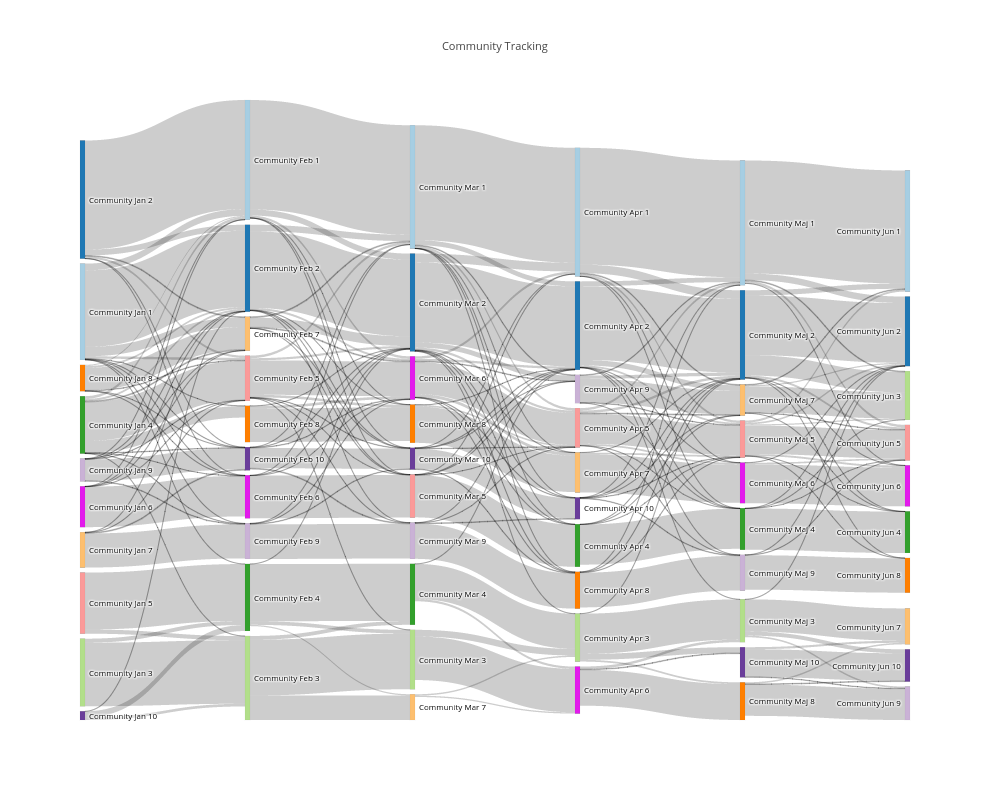
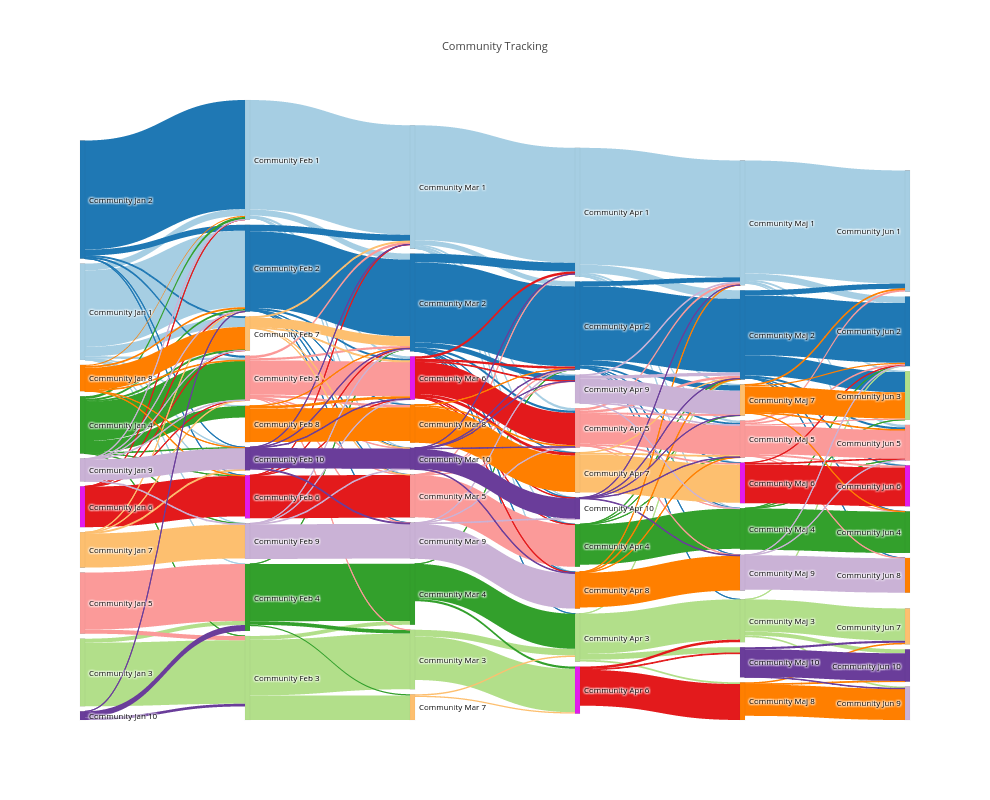
alluva

diff --git a/figure.js b/figure.js
@@ -11,7 +11,7 @@ var figure = {
     "data": [
         {
             "node": {
-                "colorsrc": "s.houshmand1511:477:c0d793", 
+                "colorsrc": "s.houshmand1511:497:6803f9", 
                 "color": [
                     "#a6cee3", 
                     "#1f78b4", 
@@ -137,7 +137,7 @@ var figure = {
                     "Community Jun 10"
                 ], 
                 "pad": 5, 
-                "labelsrc": "s.houshmand1511:477:9d5765", 
+                "labelsrc": "s.houshmand1511:497:fb011c", 
                 "line": {
                     "color": "black", 
                     "width": 0.1
@@ -158,6 +158,7 @@ var figure = {
             "orientation": "h", 
             "type": "sankey", 
             "link": {
+                "colorsrc": "s.houshmand1511:497:f0a7ef", 
                 "target": [
                     13.0, 
                     19.0, 
@@ -404,7 +405,263 @@ var figure = {
                     56.0, 
                     59.0
                 ], 
-                "valuesrc": "s.houshmand1511:477:21aef6", 
+                "valuesrc": "s.houshmand1511:497:79f095", 
+                "color": [
+                    "rgba(166,206,227,1)", 
+                    "rgba(166,206,227,1)", 
+                    "rgba(166,206,227,1)", 
+                    "rgba(166,206,227,1)", 
+                    "rgba(166,206,227,1)", 
+                    "rgba(166,206,227,1)", 
+                    "rgba(166,206,227,1)", 
+                    "rgba(166,206,227,1)", 
+                    "rgba(166,206,227,1)", 
+                    "rgba(31,120,180,1)", 
+                    "rgba(31,120,180,1)", 
+                    "rgba(31,120,180,1)", 
+                    "rgba(31,120,180,1)", 
+                    "rgba(31,120,180,1)", 
+                    "rgba(31,120,180,1)", 
+                    "rgba(178,223,138,1)", 
+                    "rgba(178,223,138,1)", 
+                    "rgba(51,160,44,1)", 
+                    "rgba(51,160,44,1)", 
+                    "rgba(51,160,44,1)", 
+                    "rgba(51,160,44,1)", 
+                    "rgba(51,160,44,1)", 
+                    "rgba(51,160,44,1)", 
+                    "rgba(51,160,44,1)", 
+                    "rgba(51,160,44,1)", 
+                    "rgba(51,160,44,1)", 
+                    "rgba(251,154,153,1)", 
+                    "rgba(251,154,153,1)", 
+                    "rgba(227,26,28,1)", 
+                    "rgba(227,26,28,1)", 
+                    "rgba(227,26,28,1)", 
+                    "rgba(227,26,28,1)", 
+                    "rgba(227,26,28,1)", 
+                    "rgba(253,191,111,1)", 
+                    "rgba(253,191,111,1)", 
+                    "rgba(253,191,111,1)", 
+                    "rgba(253,191,111,1)", 
+                    "rgba(255,127,0,1)", 
+                    "rgba(255,127,0,1)", 
+                    "rgba(255,127,0,1)", 
+                    "rgba(255,127,0,1)", 
+                    "rgba(255,127,0,1)", 
+                    "rgba(255,127,0,1)", 
+                    "rgba(202,178,214,1)", 
+                    "rgba(202,178,214,1)", 
+                    "rgba(202,178,214,1)", 
+                    "rgba(202,178,214,1)", 
+                    "rgba(202,178,214,1)", 
+                    "rgba(202,178,214,1)", 
+                    "rgba(106,61,154,1)", 
+                    "rgba(106,61,154,1)", 
+                    "rgba(106,61,154,1)", 
+                    "rgba(166,206,227,1)", 
+                    "rgba(166,206,227,1)", 
+                    "rgba(166,206,227,1)", 
+                    "rgba(166,206,227,1)", 
+                    "rgba(166,206,227,1)", 
+                    "rgba(166,206,227,1)", 
+                    "rgba(31,120,180,1)", 
+                    "rgba(31,120,180,1)", 
+                    "rgba(31,120,180,1)", 
+                    "rgba(31,120,180,1)", 
+                    "rgba(31,120,180,1)", 
+                    "rgba(31,120,180,1)", 
+                    "rgba(31,120,180,1)", 
+                    "rgba(178,223,138,1)", 
+                    "rgba(178,223,138,1)", 
+                    "rgba(178,223,138,1)", 
+                    "rgba(51,160,44,1)", 
+                    "rgba(51,160,44,1)", 
+                    "rgba(51,160,44,1)", 
+                    "rgba(51,160,44,1)", 
+                    "rgba(251,154,153,1)", 
+                    "rgba(251,154,153,1)", 
+                    "rgba(251,154,153,1)", 
+                    "rgba(251,154,153,1)", 
+                    "rgba(251,154,153,1)", 
+                    "rgba(251,154,153,1)", 
+                    "rgba(251,154,153,1)", 
+                    "rgba(251,154,153,1)", 
+                    "rgba(227,26,28,1)", 
+                    "rgba(227,26,28,1)", 
+                    "rgba(227,26,28,1)", 
+                    "rgba(227,26,28,1)", 
+                    "rgba(253,191,111,1)", 
+                    "rgba(253,191,111,1)", 
+                    "rgba(253,191,111,1)", 
+                    "rgba(253,191,111,1)", 
+                    "rgba(253,191,111,1)", 
+                    "rgba(255,127,0,1)", 
+                    "rgba(255,127,0,1)", 
+                    "rgba(255,127,0,1)", 
+                    "rgba(202,178,214,1)", 
+                    "rgba(202,178,214,1)", 
+                    "rgba(202,178,214,1)", 
+                    "rgba(202,178,214,1)", 
+                    "rgba(106,61,154,1)", 
+                    "rgba(106,61,154,1)", 
+                    "rgba(106,61,154,1)", 
+                    "rgba(106,61,154,1)", 
+                    "rgba(106,61,154,1)", 
+                    "rgba(166,206,227,1)", 
+                    "rgba(166,206,227,1)", 
+                    "rgba(166,206,227,1)", 
+                    "rgba(166,206,227,1)", 
+                    "rgba(166,206,227,1)", 
+                    "rgba(166,206,227,1)", 
+                    "rgba(166,206,227,1)", 
+                    "rgba(166,206,227,1)", 
+                    "rgba(31,120,180,1)", 
+                    "rgba(31,120,180,1)", 
+                    "rgba(31,120,180,1)", 
+                    "rgba(31,120,180,1)", 
+                    "rgba(31,120,180,1)", 
+                    "rgba(31,120,180,1)", 
+                    "rgba(31,120,180,1)", 
+                    "rgba(31,120,180,1)", 
+                    "rgba(31,120,180,1)", 
+                    "rgba(178,223,138,1)", 
+                    "rgba(178,223,138,1)", 
+                    "rgba(51,160,44,1)", 
+                    "rgba(51,160,44,1)", 
+                    "rgba(51,160,44,1)", 
+                    "rgba(251,154,153,1)", 
+                    "rgba(251,154,153,1)", 
+                    "rgba(251,154,153,1)", 
+                    "rgba(251,154,153,1)", 
+                    "rgba(251,154,153,1)", 
+                    "rgba(227,26,28,1)", 
+                    "rgba(227,26,28,1)", 
+                    "rgba(227,26,28,1)", 
+                    "rgba(227,26,28,1)", 
+                    "rgba(227,26,28,1)", 
+                    "rgba(227,26,28,1)", 
+                    "rgba(227,26,28,1)", 
+                    "rgba(227,26,28,1)", 
+                    "rgba(253,191,111,1)", 
+                    "rgba(253,191,111,1)", 
+                    "rgba(255,127,0,1)", 
+                    "rgba(255,127,0,1)", 
+                    "rgba(255,127,0,1)", 
+                    "rgba(202,178,214,1)", 
+                    "rgba(202,178,214,1)", 
+                    "rgba(202,178,214,1)", 
+                    "rgba(202,178,214,1)", 
+                    "rgba(106,61,154,1)", 
+                    "rgba(106,61,154,1)", 
+                    "rgba(106,61,154,1)", 
+                    "rgba(106,61,154,1)", 
+                    "rgba(106,61,154,1)", 
+                    "rgba(106,61,154,1)", 
+                    "rgba(166,206,227,1)", 
+                    "rgba(166,206,227,1)", 
+                    "rgba(166,206,227,1)", 
+                    "rgba(166,206,227,1)", 
+                    "rgba(166,206,227,1)", 
+                    "rgba(166,206,227,1)", 
+                    "rgba(31,120,180,1)", 
+                    "rgba(31,120,180,1)", 
+                    "rgba(31,120,180,1)", 
+                    "rgba(31,120,180,1)", 
+                    "rgba(31,120,180,1)", 
+                    "rgba(31,120,180,1)", 
+                    "rgba(31,120,180,1)", 
+                    "rgba(31,120,180,1)", 
+                    "rgba(178,223,138,1)", 
+                    "rgba(178,223,138,1)", 
+                    "rgba(178,223,138,1)", 
+                    "rgba(178,223,138,1)", 
+                    "rgba(51,160,44,1)", 
+                    "rgba(51,160,44,1)", 
+                    "rgba(51,160,44,1)", 
+                    "rgba(51,160,44,1)", 
+                    "rgba(251,154,153,1)", 
+                    "rgba(251,154,153,1)", 
+                    "rgba(251,154,153,1)", 
+                    "rgba(251,154,153,1)", 
+                    "rgba(251,154,153,1)", 
+                    "rgba(251,154,153,1)", 
+                    "rgba(251,154,153,1)", 
+                    "rgba(227,26,28,1)", 
+                    "rgba(227,26,28,1)", 
+                    "rgba(227,26,28,1)", 
+                    "rgba(253,191,111,1)", 
+                    "rgba(253,191,111,1)", 
+                    "rgba(253,191,111,1)", 
+                    "rgba(255,127,0,1)", 
+                    "rgba(255,127,0,1)", 
+                    "rgba(255,127,0,1)", 
+                    "rgba(255,127,0,1)", 
+                    "rgba(202,178,214,1)", 
+                    "rgba(202,178,214,1)", 
+                    "rgba(202,178,214,1)", 
+                    "rgba(202,178,214,1)", 
+                    "rgba(202,178,214,1)", 
+                    "rgba(106,61,154,1)", 
+                    "rgba(106,61,154,1)", 
+                    "rgba(106,61,154,1)", 
+                    "rgba(106,61,154,1)", 
+                    "rgba(106,61,154,1)", 
+                    "rgba(166,206,227,1)", 
+                    "rgba(166,206,227,1)", 
+                    "rgba(166,206,227,1)", 
+                    "rgba(166,206,227,1)", 
+                    "rgba(166,206,227,1)", 
+                    "rgba(31,120,180,1)", 
+                    "rgba(31,120,180,1)", 
+                    "rgba(31,120,180,1)", 
+                    "rgba(31,120,180,1)", 
+                    "rgba(31,120,180,1)", 
+                    "rgba(31,120,180,1)", 
+                    "rgba(31,120,180,1)", 
+                    "rgba(178,223,138,1)", 
+                    "rgba(178,223,138,1)", 
+                    "rgba(178,223,138,1)", 
+                    "rgba(178,223,138,1)", 
+                    "rgba(51,160,44,1)", 
+                    "rgba(51,160,44,1)", 
+                    "rgba(51,160,44,1)", 
+                    "rgba(51,160,44,1)", 
+                    "rgba(251,154,153,1)", 
+                    "rgba(251,154,153,1)", 
+                    "rgba(251,154,153,1)", 
+                    "rgba(251,154,153,1)", 
+                    "rgba(251,154,153,1)", 
+                    "rgba(251,154,153,1)", 
+                    "rgba(251,154,153,1)", 
+                    "rgba(227,26,28,1)", 
+                    "rgba(227,26,28,1)", 
+                    "rgba(227,26,28,1)", 
+                    "rgba(255,127,0,1)", 
+                    "rgba(255,127,0,1)", 
+                    "rgba(255,127,0,1)", 
+                    "rgba(255,127,0,1)", 
+                    "rgba(255,127,0,1)", 
+                    "rgba(255,127,0,1)", 
+                    "rgba(255,127,0,1)", 
+                    "rgba(255,127,0,1)", 
+                    "rgba(202,178,214,1)", 
+                    "rgba(202,178,214,1)", 
+                    "rgba(202,178,214,1)", 
+                    "rgba(106,61,154,1)", 
+                    "rgba(106,61,154,1)", 
+                    "rgba(106,61,154,1)", 
+                    "rgba(166,206,227,1)", 
+                    "rgba(31,120,180,1)", 
+                    "rgba(178,223,138,1)", 
+                    "rgba(51,160,44,1)", 
+                    "rgba(251,154,153,1)", 
+                    "rgba(227,26,28,1)", 
+                    "rgba(253,191,111,1)", 
+                    "rgba(255,127,0,1)", 
+                    "rgba(202,178,214,1)", 
+                    "rgba(106,61,154,1)"
+                ], 
                 "value": [
                     1489.0, 
                     8777.0, 
@@ -897,8 +1154,8 @@ var figure = {
                     49.0, 
                     49.0
                 ], 
-                "sourcesrc": "s.houshmand1511:477:a9f1d6", 
-                "targetsrc": "s.houshmand1511:477:3661ba"
+                "sourcesrc": "s.houshmand1511:497:0a4b61", 
+                "targetsrc": "s.houshmand1511:497:35f596"
             }, 
             "aluesuffix": "TWh"
         }

diff --git a/index.html b/index.html
@@ -176,12 +176,12 @@
             <button class="degree_norm" onclick="plusDivs(-1)">&#10094;</button>
             <button class="degree_norm" onclick="plusDivs(1)">&#10095;</button>
         </div>
-        <div id="c2467780-1dd9-44a0-af72-ca3a54d83f36" style="width: 990px; height: 800px;" class="plotly-graph-div"></div>
+         <div id="81b8db1f-e016-4c9d-be76-f9039167bf35" style="width: 990px; height: 800px;" class="plotly-graph-div"></div>
         <script type="text/javascript">
             (function(){
                 window.PLOTLYENV={'BASE_URL': 'https://plot.ly'};
 
-                var gd = document.getElementById('c2467780-1dd9-44a0-af72-ca3a54d83f36')
+                var gd = document.getElementById('81b8db1f-e016-4c9d-be76-f9039167bf35')
                 var resizeDebounce = null;
 
                 function resizePlot() {
